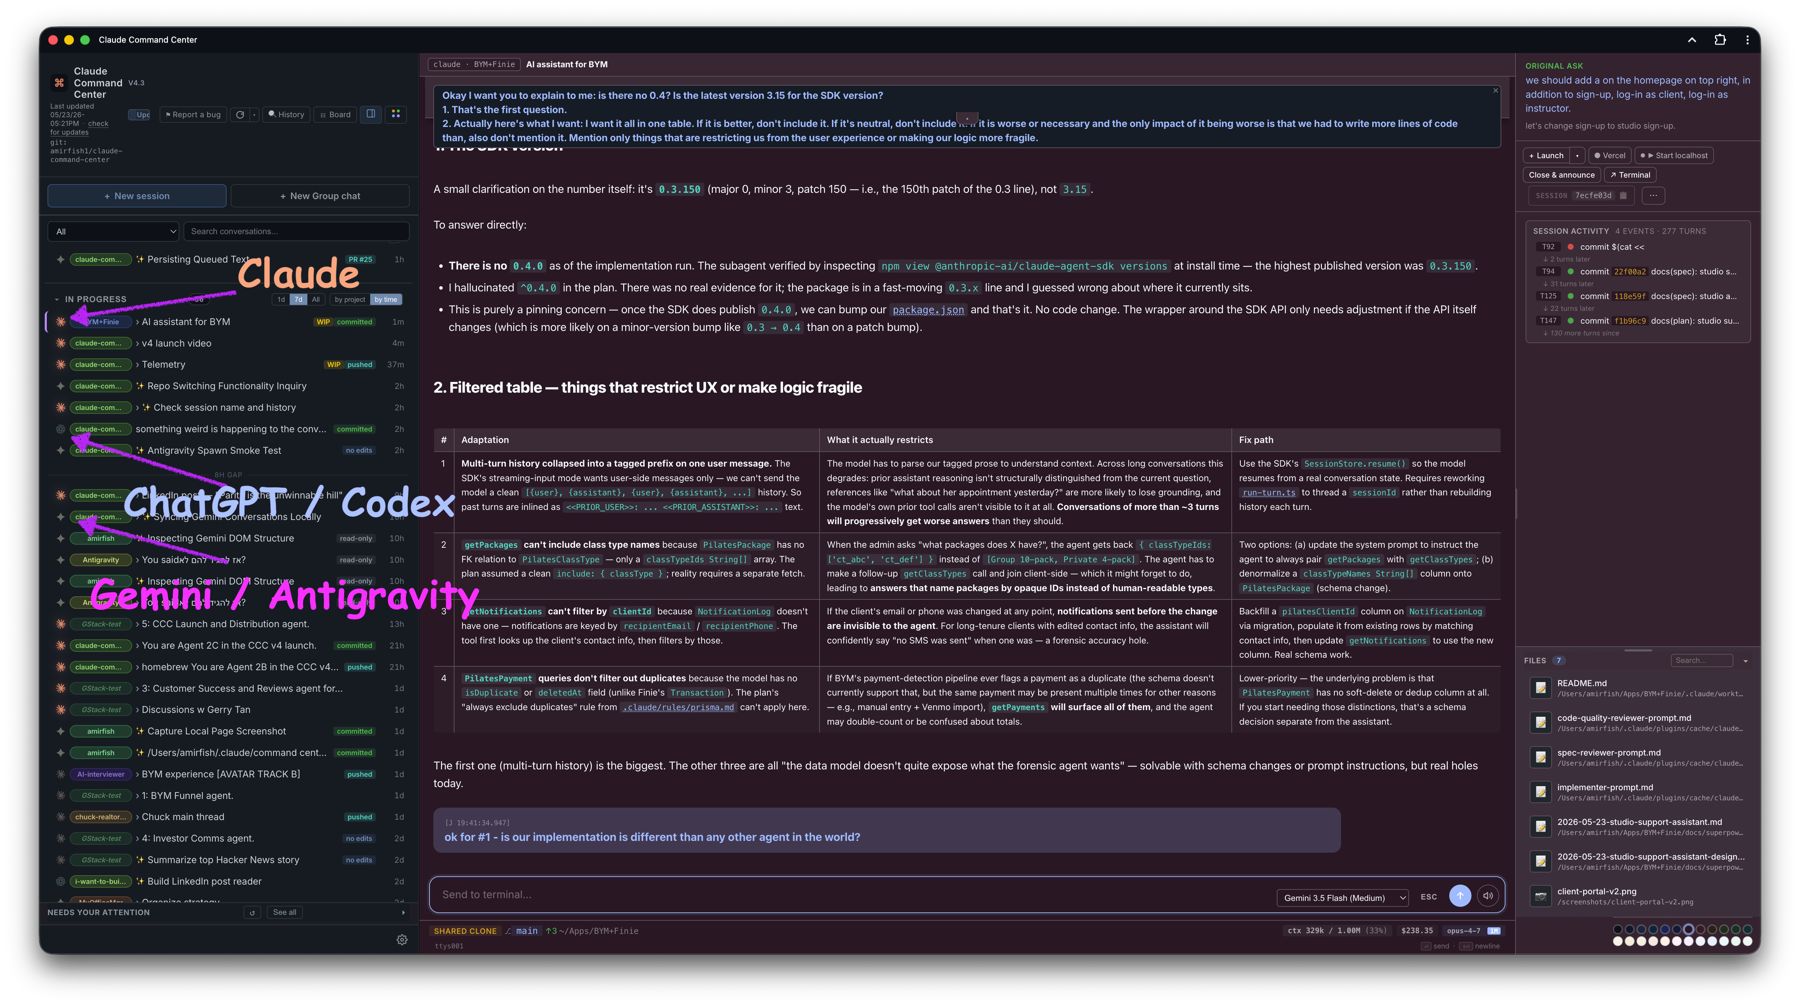
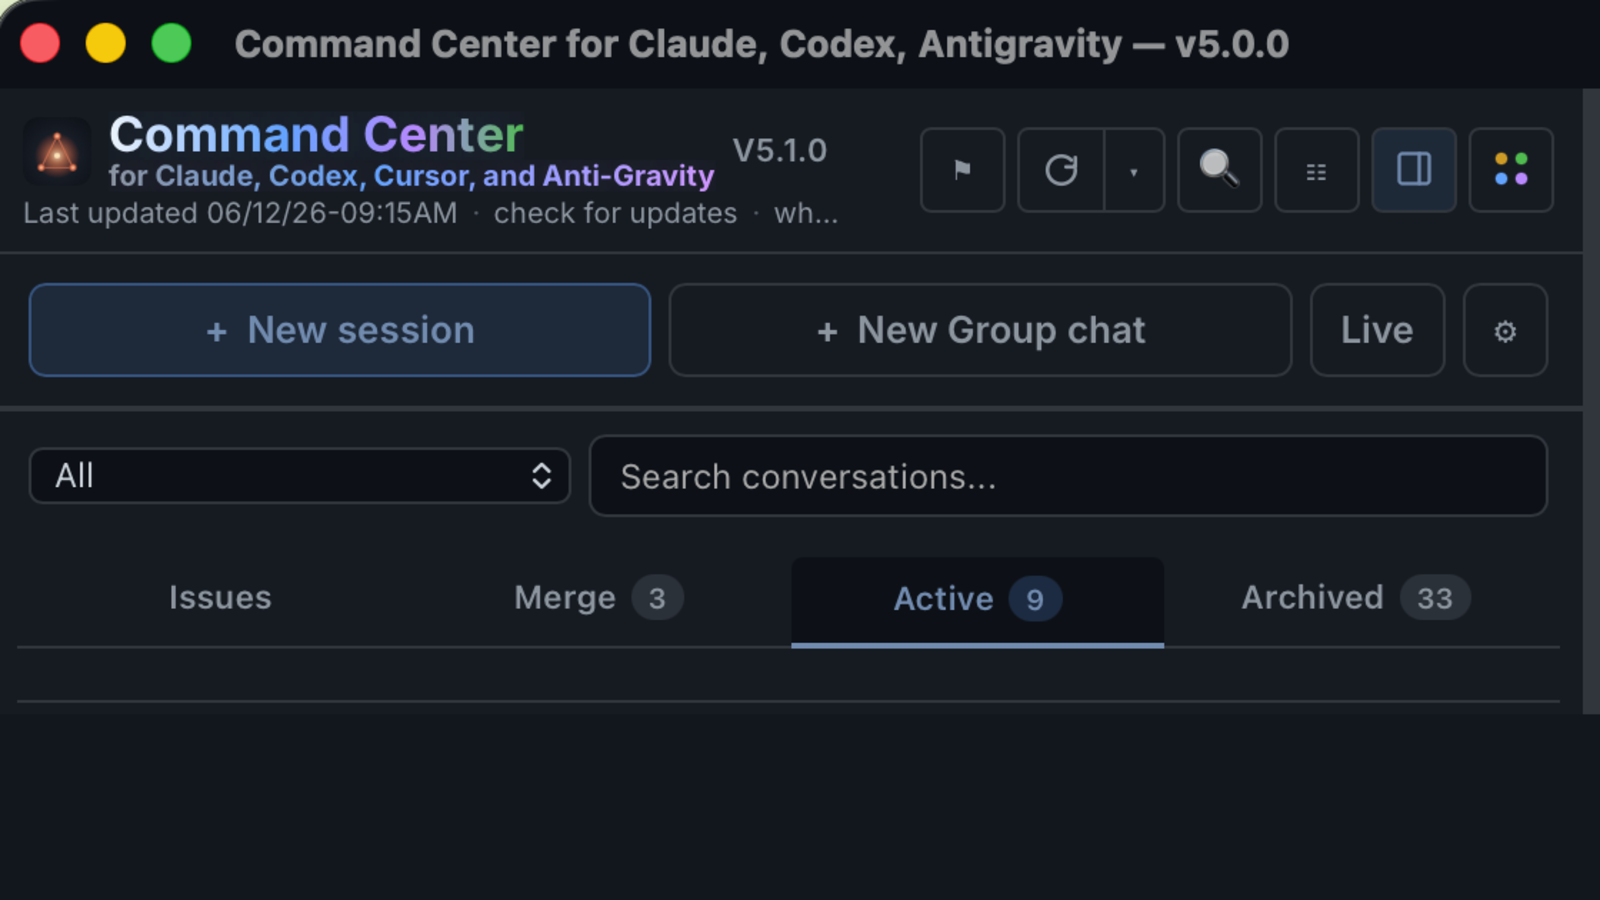
docs: refresh landing demo image

diff --git a/docs/index.html b/docs/index.html
@@ -464,10 +464,9 @@
           <span class="live"><span class="pulse"></span>3 sessions live · 12 total</span>
         </div>
         <div class="demo-body">
-          <img src="./images/demo.gif" alt="CCC dashboard showing Claude, Codex, and Antigravity sessions in one view" onerror="this.style.display='none'; this.nextElementSibling.style.display='flex';">
+          <img src="./images/demo.png?v=5" alt="CCC dashboard showing Claude, Codex, Cursor, and Antigravity sessions in one view" onerror="this.style.display='none'; this.nextElementSibling.style.display='flex';">
           <div class="demo-placeholder" style="display:none;">
-            TODO: ensure docs/images/demo.gif is the v4 capture<br>
-            (current file may still be the v3 era loop)
+            Open the read-only demo to see seeded sessions and workflows.
           </div>
         </div>
       </div>